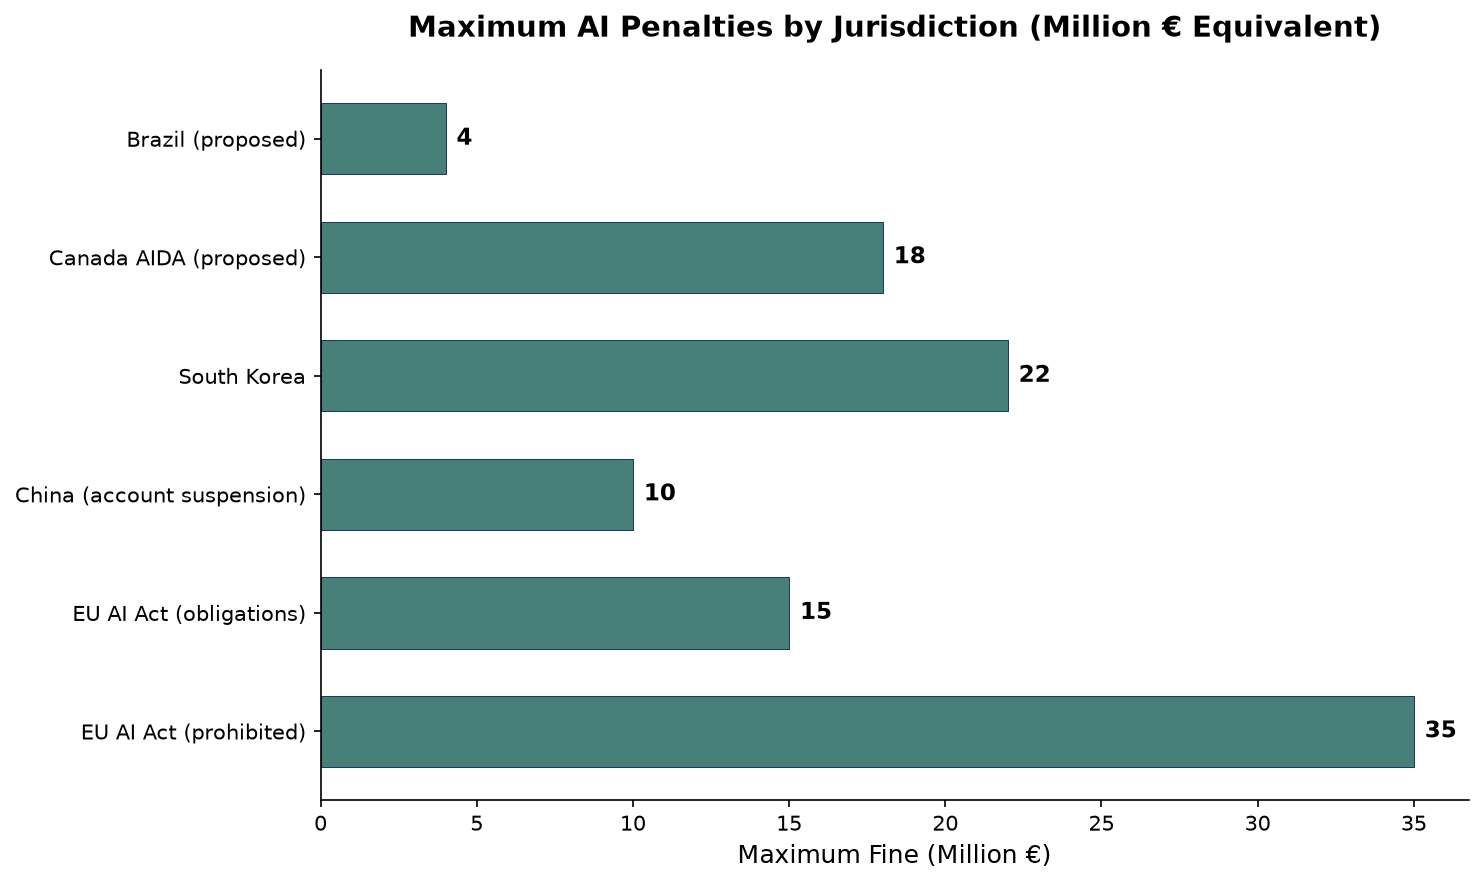
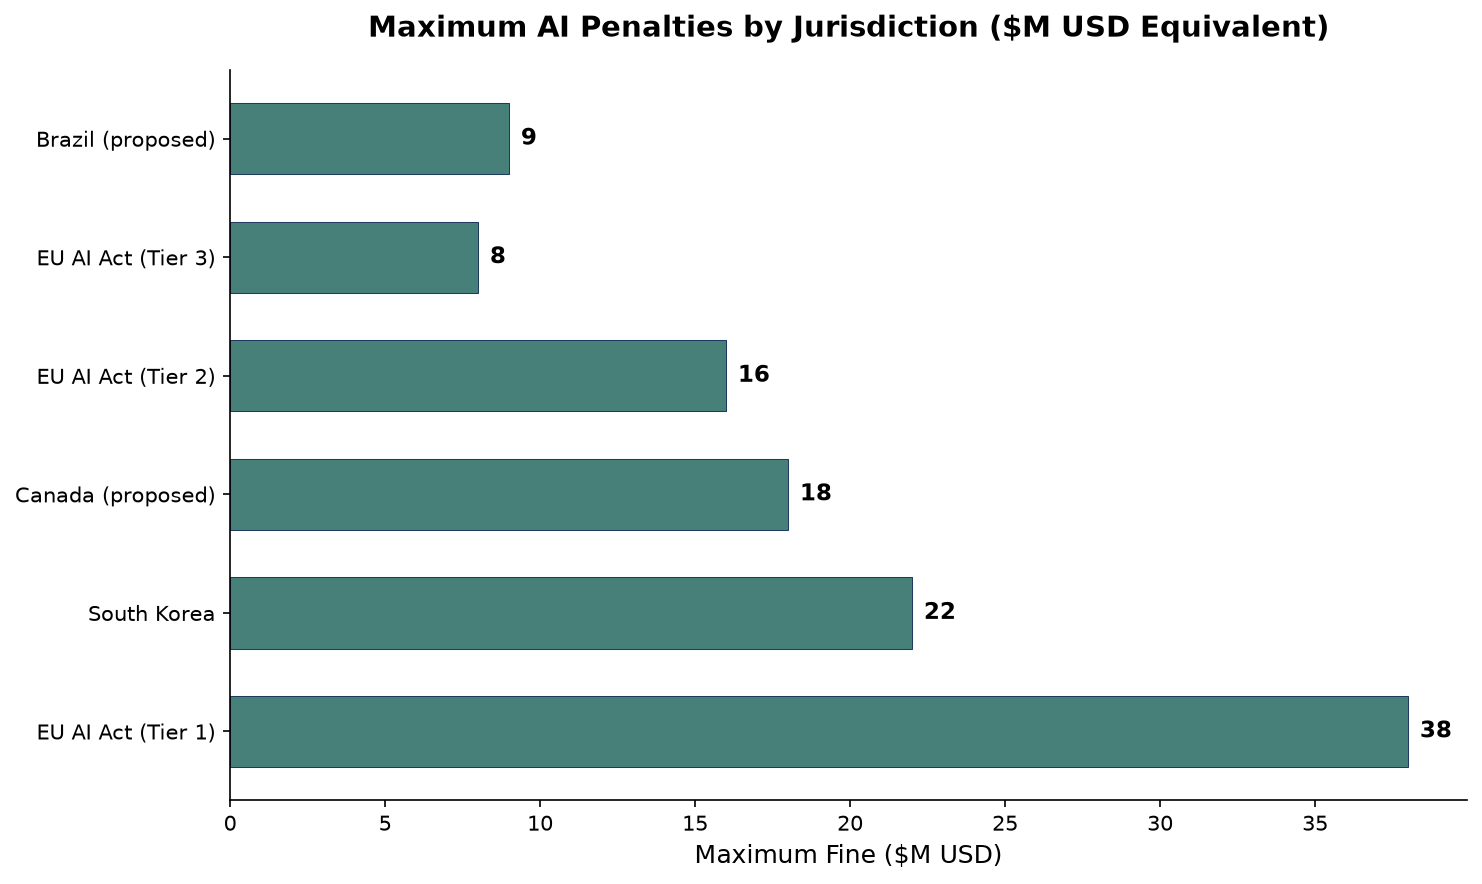
publish(ai-regulation): fix penalty chart data (remove China estimate, correct currency)

diff --git a/hugo-site/content/blog/ai-regulation-2026/index.md b/hugo-site/content/blog/ai-regulation-2026/index.md
@@ -51,7 +51,7 @@ Article 99 establishes a three-tier penalty framework. The fines are the higher 
 
 *Source: EU AI Act, Article 99. Penalties are the second-highest percentage-based fines in EU digital regulation, behind only the Digital Markets Act.*
 
-![Horizontal bar chart comparing maximum AI penalties across jurisdictions](/images/charts/ai-regulation-2026-chart-1.png "Maximum AI penalties by jurisdiction (million € equivalent): EU prohibited €35M, South Korea €22M, Canada proposed €18M, EU obligations €15M, China account suspension (€10M est.), Brazil proposed €4M. Sources: EU AI Act Art. 99, Korean AI Basic Act, DLA Piper global tracker, 2026.")
+![Horizontal bar chart comparing maximum AI penalties across jurisdictions in USD equivalent](/images/charts/ai-regulation-2026-chart-1.png "Maximum AI penalties by jurisdiction ($M USD equivalent): EU Tier 1 (prohibited practices) $38M, South Korea $22M, Canada proposed $18M, EU Tier 2 (obligations) $16M, Brazil proposed $9M, EU Tier 3 (incorrect info) $8M. China excluded — uses operational penalties (account suspension, content removal) rather than monetary fines. Sources: EU AI Act Art. 99, Korean AI Basic Act, DLA Piper global tracker, 2026.")
 
 The EU AI Office is operational and exercising oversight for general-purpose AI models. National market surveillance authorities across all 27 member states will enforce high-risk obligations. For US companies, enforcement flows through their EU authorized representative, EU business partners, or direct investigation triggered by incidents or complaints. The practical implication: a US-based SaaS company whose AI-powered hiring tool evaluates EU residents must comply with Annex III employment provisions even if the company has no physical presence in Europe.
 

diff --git a/hugo-site/content/blog/ai-regulation-2026/index.zh.md b/hugo-site/content/blog/ai-regulation-2026/index.zh.md
@@ -49,7 +49,7 @@ EU AI Act是全球首部全面的横向AI法规。于2024年6月通过，2024年
 
 *来源：EU AI Act第99条。罚款是欧盟数字法规中第二高的百分比罚款，仅次于《数字市场法》。*
 
-![水平柱状图：各司法管辖区最高AI罚款对比](/images/charts/ai-regulation-2026-chart-1.png "各司法管辖区最高AI罚款（百万欧元当量）：欧盟禁止行为€3,500万、韩国€2,200万、加拿大提案€1,800万、欧盟义务€1,500万、中国账户暂停（约€1,000万当量）、巴西提案€400万。来源：EU AI Act第99条、韩国AI基本法、DLA Piper。")
+![水平柱状图：各司法管辖区最高AI罚款对比（USD换算）](/images/charts/ai-regulation-2026-chart-1.png "各司法管辖区最高AI罚款（$M USD换算）：欧盟Tier 1（禁止行为）$3,800万、韩国$2,200万、加拿大提案$1,800万、欧盟Tier 2（义务）$1,600万、巴西提案$900万、欧盟Tier 3（虚假信息）$800万。中国因使用运营性制裁（账户暂停、内容删除）而非固定罚款被排除。来源：EU AI Act第99条、韩国AI基本法、DLA Piper。")
 
 EU AI Office已开始运作，对通用AI模型进行监督。所有27个成员国的国家市场监督机构将执行高风险义务。对于美国公司，执行通过其欧盟授权代表、欧盟业务伙伴或由事件或投诉触发的直接调查进行。
 
